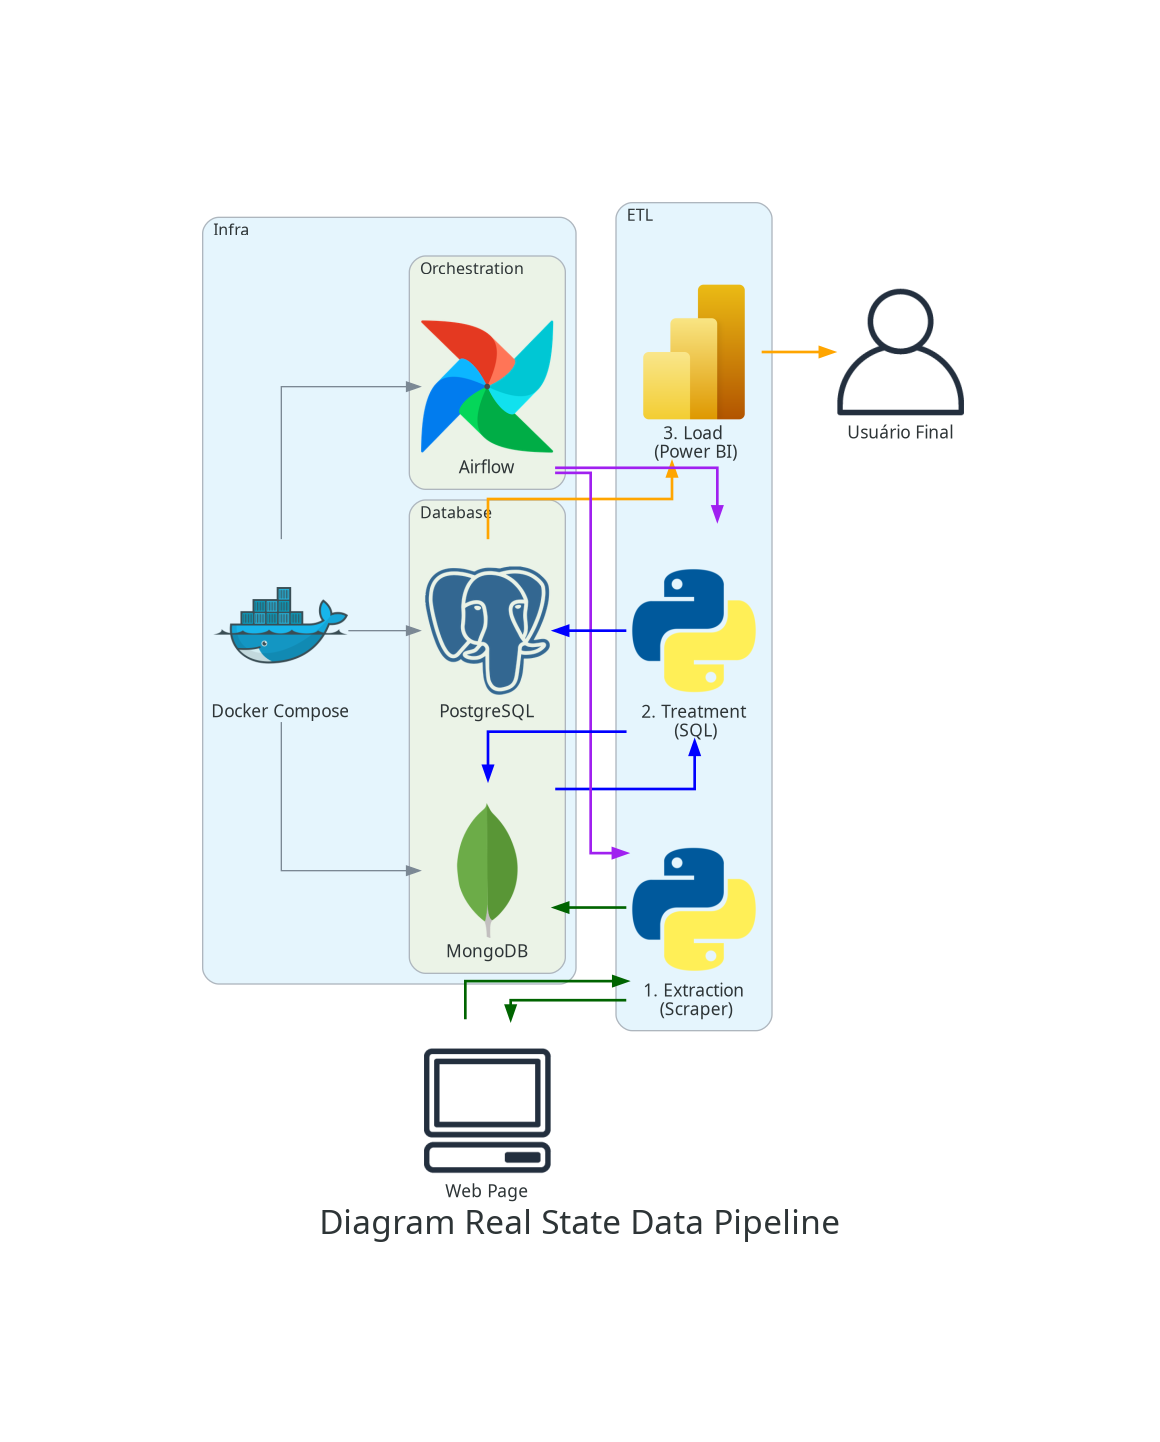
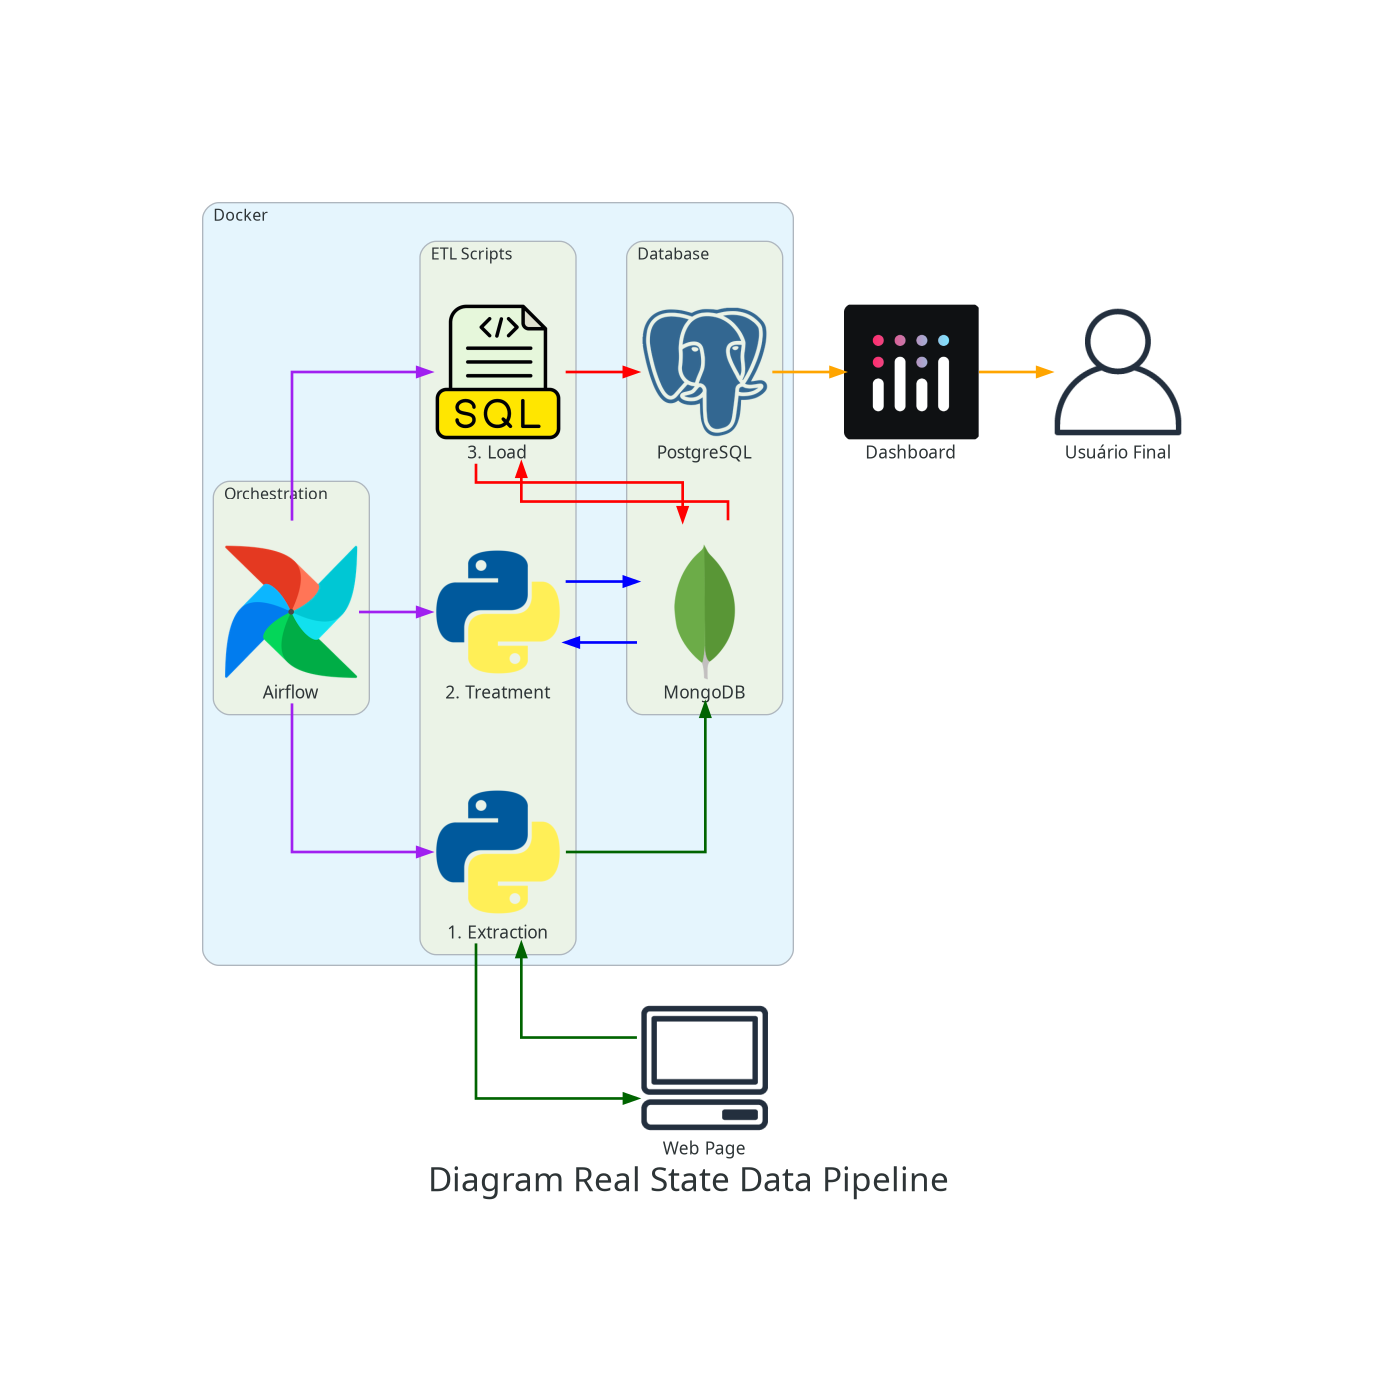
update pipeline diagram

Changed region(s): [[0.1241, 0.1229, 0.869, 0.8606]]

diff --git a/diagrams/diagram_pipeline.py b/diagrams/diagram_pipeline.py
@@ -1,7 +1,6 @@
 from diagrams.custom import Custom
 from diagrams import Diagram, Cluster, Edge
 from diagrams.onprem.database import MongoDB
-from diagrams.onprem.container import Docker
 from diagrams.onprem.workflow import Airflow
 from diagrams.onprem.database import PostgreSQL
 from diagrams.onprem.client import User, Client
@@ -19,8 +18,7 @@ with Diagram(
 ):
     user = User("Usuário Final")
 
-    with Cluster("Infra"):
-        docker = Docker("Docker Compose")
+    with Cluster("Docker"):
 
         with Cluster("Database"):
             postgres = PostgreSQL("PostgreSQL")
@@ -29,16 +27,14 @@ with Diagram(
         with Cluster("Orchestration"):
             airflow = Airflow("Airflow")
 
-    with Cluster("ETL"):
-        python_scraper = Python("1. Extraction")
-        python_treatment = Python("2. Treatment")
-        power_bi = Custom("3. Load", "images/powerbi_logo.png")
+        with Cluster("ETL Scripts"):
+            python_scraper = Python("1. Extraction")
+            python_treatment = Python("2. Treatment")
+            sql = Custom("3. Load", "images/sql.png")
+
+    dashboard = Custom("Dashboard", "images/dash_plotly.png")
 
     web_page = Client("Web Page")
-
-    docker >> airflow
-    docker >> postgres
-    docker >> mongodb
 
     airflow >> Edge(color="purple", style="bold") \
         >> python_scraper >> Edge(color="darkgreen", style="bold") \
@@ -49,9 +45,14 @@ with Diagram(
     airflow >> Edge(color="purple", style="bold") \
         >> python_treatment >> Edge(color="blue", style="bold") \
             >> mongodb >> Edge(color="blue", style="bold") \
-            >> python_treatment >> Edge(color="blue", style="bold") \
+            >> python_treatment >> Edge(color="blue", style="bold")
+
+    airflow >> Edge(color="purple", style="bold") \
+        >> sql >> Edge(color="red", style="bold") \
+            >> mongodb >> Edge(color="red", style="bold") \
+            >> sql >> Edge(color="red", style="bold") \
             >> postgres
 
     postgres >> Edge(color="orange", style="bold") \
-        >> power_bi >> Edge(color="orange", style="bold") \
+        >> dashboard >> Edge(color="orange", style="bold") \
         >> user

diff --git a/scripts/etl/extraction/scraper.py b/scripts/etl/extraction/scraper.py
@@ -1,9 +1,12 @@
 from selenium import webdriver
 from selenium_stealth import stealth
 from selenium.webdriver.common.by import By
+from selenium.webdriver.chrome.service import Service
 from selenium.webdriver.support.ui import WebDriverWait
 from selenium.common.exceptions import TimeoutException
+from webdriver_manager.chrome import ChromeDriverManager
 from selenium.webdriver.support import expected_conditions as EC
+
 from time import sleep
 
 
@@ -27,7 +30,15 @@ class WebScraper:
             ["enable-automation"]
         )
         options.add_experimental_option('useAutomationExtension', False)
-        driver = webdriver.Chrome(options=options)
+
+        # options.add_argument("--disable-dev-shm-usage")
+        # options.add_argument("--no-sandbox")
+        # options.add_argument("--remote-debugging-port=9222")
+
+        driver = webdriver.Chrome(
+            service=Service(ChromeDriverManager().install()),
+            options=options
+        )
 
         stealth(
             driver,

diff --git a/dags/extraction.py b/dags/extraction.py
@@ -26,6 +26,7 @@ with DAG(
         command="etl/extraction/links.py",
         docker_url="unix://var/run/docker.sock",
         network_mode="bridge",
+        mount_tmp_dir=False
     )
 
     property = DockerOperator(
@@ -36,6 +37,7 @@ with DAG(
         command="etl/extraction/property.py",
         docker_url="unix://var/run/docker.sock",
         network_mode="bridge",
+        mount_tmp_dir=False
     )
 
     real_state = DockerOperator(
@@ -46,6 +48,7 @@ with DAG(
         command="etl/extraction/real_state.py",
         docker_url="unix://var/run/docker.sock",
         network_mode="bridge",
+        mount_tmp_dir=False
     )
 
     start_treatment = TriggerDagRunOperator(
@@ -55,4 +58,5 @@ with DAG(
         deferrable=True,
     )
 
-    links >> property >> real_state >> start_treatment
+    links >> property >> real_state 
+    # >> start_treatment

diff --git a/dags/treatment.py b/dags/treatment.py
@@ -20,6 +20,7 @@ with DAG(
         command="etl/treatment/property.py",
         docker_url="unix://var/run/docker.sock",
         network_mode="bridge",
+        mount_tmp_dir=False
     )
 
     real_state = DockerOperator(
@@ -30,6 +31,7 @@ with DAG(
         command="etl/treatment/real_state.py",
         docker_url="unix://var/run/docker.sock",
         network_mode="bridge",
+        mount_tmp_dir=False
     )
 
     start_load = TriggerDagRunOperator(

diff --git a/scripts/etl/extraction/links.py b/scripts/etl/extraction/links.py
@@ -16,8 +16,9 @@ def get_links_property():
     tipos = [
         # "casas",
         # "apartamentos",
-        "studio",
-        # "quitinetes", "casas-de-condominio",
+        # "studio",
+        # "quitinetes",
+        "casas-de-condominio",
         # "cobertura", "flat", "float",
     ]
     for tipo in tipos:

diff --git a/README.md b/README.md
@@ -23,14 +23,15 @@ Este projeto visa automatizar o processo de coleta e análise de dados de imóve
 - **Extrair** dados como preço, localização e características dos imóveis a partir de sites de imobiliárias.
 - **Transformar** os dados brutos por meio de limpeza e cálculos de insights (ex. preço médio por bairro, variação de preços por características).
 - **Carregar** os dados limpos e processados em um banco de dados (PostgreSQL ou MongoDB).
-- **Visualizar** os dados por meio de um dashboard interativo no Power BI, facilitando a análise de tendências no mercado imobiliário.
+- **Visualizar** os dados por meio de um dashboard interativo, facilitando a análise de tendências no mercado imobiliário.
 
 ## Tecnologias Utilizadas
 
+- **Docker**: 
 - **Python**: Linguagem principal para desenvolver os scripts de scraping e transformação de dados.
 - **Apache Airflow**: Orquestração e gerenciamento do pipeline de ETL.
 - **PostgreSQL/MongoDB**: Armazenamento dos dados transformados para consulta e análise.
-- **Power BI**: Visualização interativa dos dados e criação de dashboards.
+- **Dash Plotly**: Visualização interativa dos dados e criação de dashboards.
 - **Selenium**: Ferramentas para scraping de dados dos sites de imobiliárias.
 
 ## Estrutura do Pipeline
@@ -52,12 +53,12 @@ Este projeto visa automatizar o processo de coleta e análise de dados de imóve
 
 ## Cronograma de Execução
 
-### Parte 1 (14 a 17 de Outubro)
+### Parte 1
 - ✅ Planejamento e definição de escopo
 - ✅ Escolha dos sites de imobiliárias e região alvo
 - ✅ Desenho do pipeline de ETL
 
-### Parte 2 (18 de Outubro a 14 de Novembro)
+### Parte 2
 - ✅ Configuração do banco de dados MongoDB
 - ✅ Desenvolvimento de scripts de scraping para coleta de dados
 - ✅ Testes de scraping em massa
@@ -66,7 +67,7 @@ Lembrete:
 - Implementar paginação na busca de links
 - Implementar coleta de numero de telefone das imobiliarias
 
-### Parte 3 (15 a 20 de Novembro)
+### Parte 3
 - ✅ Configuração do banco de dados PostgreSQL
 - ✅ Migração dados brutos para o PostgreSQL
 - ✅ Modelagem de Dados
@@ -76,30 +77,29 @@ Lembrete:
 Lembrete:
 - Implementar um campo de hash para garantir a unicidade de cada imóvel.
 
-### Parte 4 (21 de Novembro a 6 de Dezembro)
+### Parte 4
 - Design e implementação do pipeline de ETL no Apache Airflow
 - Integração do scraping e transformação dentro do Airflow
 
-### Parte 5 (7 a 13 de Dezembro)
+### Parte 5
 - Implementação de funções para cálculo de insights
 - Criação de views para os dashboards
-- Criação de dashboards interativos no Power BI
-- Conexão do Power BI ao banco de dados
+- Criação de dashboards interativos
 
-### Parte 6 (13 a 20 de Dezembro)
+### Parte 6
 - Revisão do pipeline e otimização
 - Ajustes nos dashboards do Power BI
 
-### Parte 7 (21 a 27 de Dezembro)
+### Parte 7
 - Documentação do projeto
 - Preparação do código e documentação para publicação
 
-### Parte 8 (27 a 10 de Janeiro)
+### Parte 8
 - Revisão final
 - Gravação de Pitch Técnico
 - Publicação do projeto no GitHub
 
-### Parte 9 (11 a 24 de Janeiro)
+### Parte 9
 - Coleta de feedback e ajustes finais
 
 ## Contribuições
